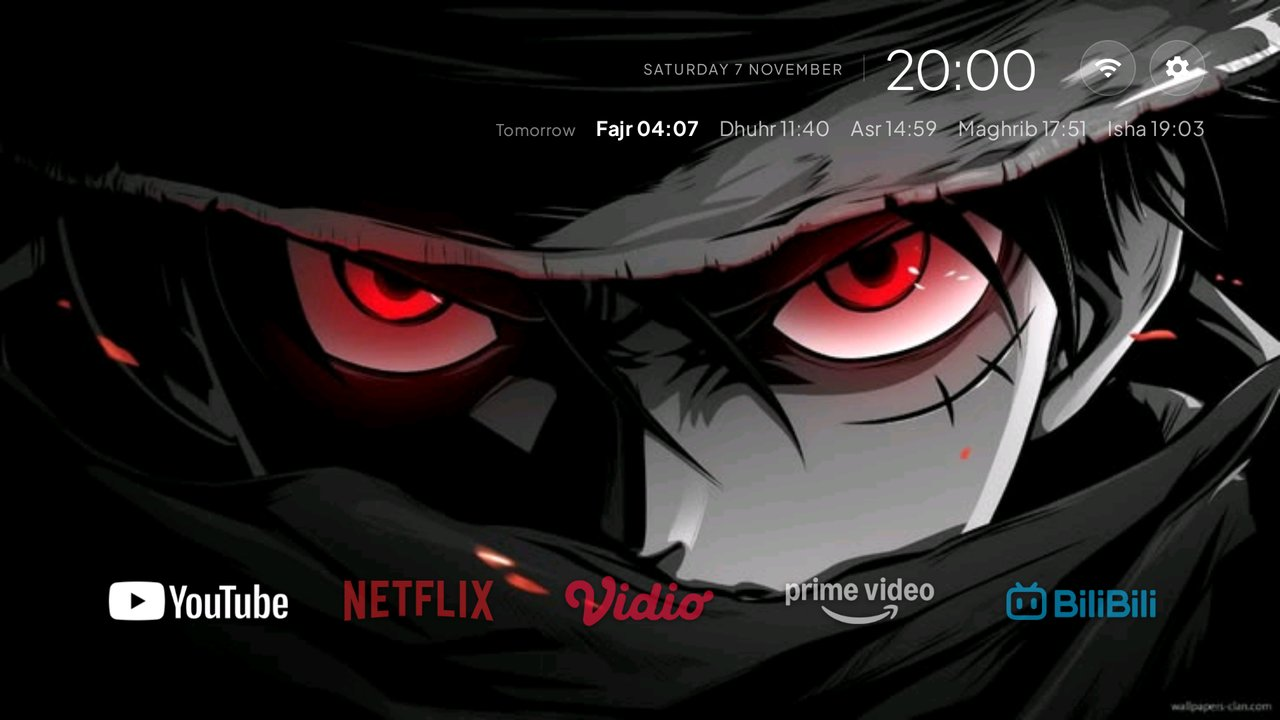
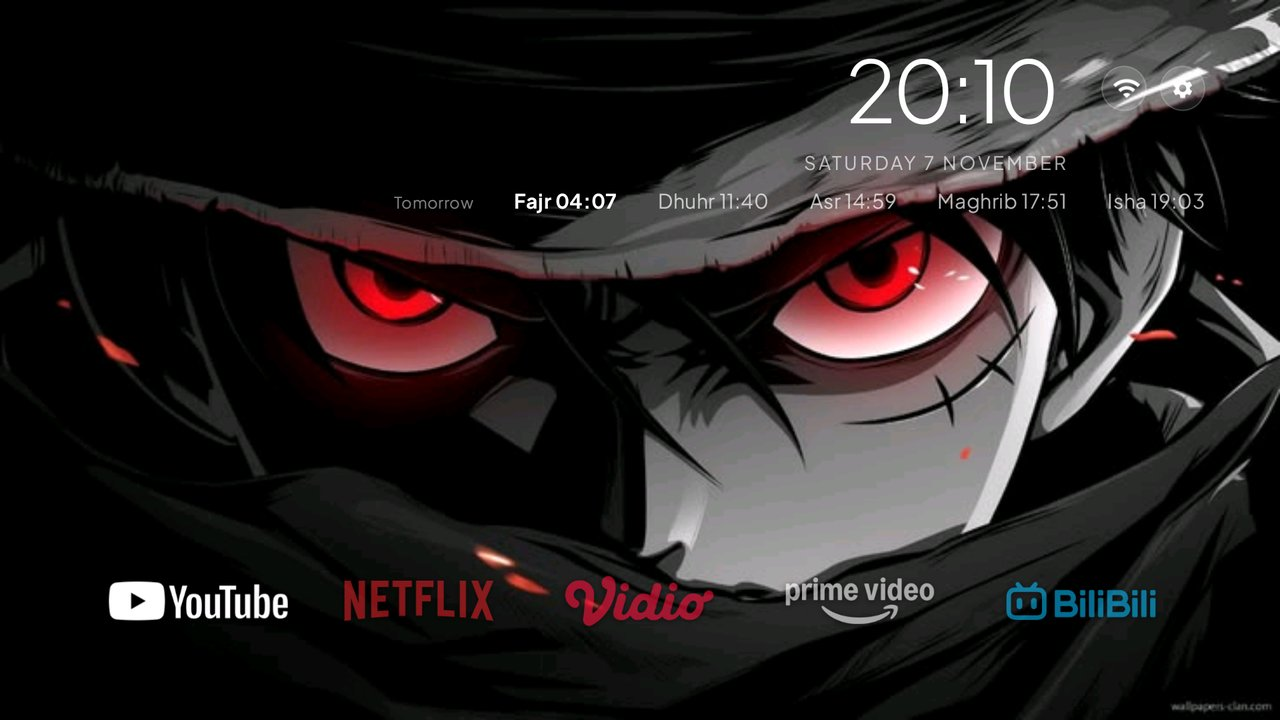
docs: header variant A screenshot, the prayer holdout and the cold-boot check in PLAN.md

diff --git a/docs/PLAN.md b/docs/PLAN.md
@@ -14,7 +14,7 @@ most 8 MB, and janky frames may differ by at most 2 percentage points.
 | 1b.1 | App logo from the theme: `icons/<package>.png`, key `app_logos` | done |
 | 1b.2 | Logo tiles with no card, focus by scale and opacity: `tile_style: "logo"`, `focus_frame: false`, `focus_scale`, `unfocused_opacity` | done |
 | 1b.4 | Combined theme push: the repo's T6C theme plus local logos from `work/theme-ref/icons/`, no logo in Git | done (by hand, see below) |
-| 1b.5 | Minimal header top right (`header_position`, `clock_size`) with today's five prayer times under it (`prayer_times`), computed offline | done; layout variant to choose |
+| 1b.5 | Minimal header top right (`header_position`, `clock_size`, `top_button_size`) with today's five prayer times under it (`prayer_times`), computed offline | done (variant A); date fix to verify after a cold boot |
 | 1b.3 | App row hidden while idle, shown on the first key press: `rows_autohide_seconds` | not started, after 1b.5 |
 | 2 | Tile size, gaps and label size as theme keys | not started |
 | 3 | Theme picker on the TV, with the remote | not started |
@@ -118,7 +118,18 @@ A/B/A after a clean boot, the experiment theme without (A) and with (B) `header_
 | GPU p50 / p90 | 5 / 6 ms | 5 / 6 ms | 5 / 6 ms |
 | Janky frames | 0.00% | 0.00% | 0.00% |
 
-The header costs no frame time and well under a megabyte. The top right reads as crowded: three layouts are drawn
+The header costs no frame time and well under a megabyte.
+
+A pure holdout, Kemenag's May, July and October 2026 (93 days), was loaded after the parameters and the margin were
+fixed and checked once: no time earlier, and same / +1 minute for Fajr 36 / 57, Dhuhr 60 / 33, Asr 44 / 49,
+Maghrib 51 / 42, Isha 36 / 57. It is a golden test now.
+
+Variant A was chosen: a large clock (`clock_size` 64) with the date under it (`date_below_clock`), round buttons at
+34 dp (`top_button_size`), and the prayer line at least the date's size with wider gaps.
+
+**To verify after the next cold boot (unplug):** the date at the top right whole, with no letter cut at either end.
+The fix (the date's lines wrap their text) was checked after theme pushes only, and the bug showed after a cold
+boot; it is not proven until the date is whole after one. The top right reads as crowded: three layouts are drawn
 as mock-ups for a choice (A: date under a large clock, B: prayers top left, C: prayers above the app row).
 
 ## Phase 1b.5 plan: minimal header and prayer times

diff --git a/docs/switches.md b/docs/switches.md
@@ -76,9 +76,10 @@ rule sit on its wanted list until a screenshot arrives.
 | `focus_frame` | <img src="switches/tile_style.jpg" width="320" alt="focus_frame false on a TV: the focused YouTube logo marked by its zoom alone, with no highlight around it"> |
 | `focus_scale` | <img src="switches/tile_style.jpg" width="320" alt="focus_scale 1.2 on a TV: the focused YouTube logo a fifth larger than the others"> |
 | `unfocused_opacity` | <img src="switches/unfocused_opacity.jpg" width="320" alt="unfocused_opacity 0.5 with animations false on a TV: Netflix focused at full opacity, the other logos at half"> |
-| `header_position` | <img src="switches/header_position.jpg" width="320" alt="header_position end on a TV: the date and a smaller clock top right, beside the Wi-Fi and Settings buttons"> |
-| `clock_size` | <img src="switches/header_position.jpg" width="320" alt="clock_size 40 on a TV: the clock top right smaller than the default 52"> |
-| `prayer_times` | <img src="switches/header_position.jpg" width="320" alt="prayer_times on a TV after Isha: Tomorrow, then Fajr 04:07 in bold, Dhuhr 11:40, Asr 14:59, Maghrib 17:51 and Isha 19:03 under the clock"> |
+| `header_position` | <img src="switches/header_position.jpg" width="320" alt="header_position end with date_below_clock on a TV: a large clock top right with the date under it, beside two small buttons"> |
+| `clock_size` | <img src="switches/header_position.jpg" width="320" alt="clock_size 64 on a TV: the clock top right larger than the default 52, the date under it at its usual size"> |
+| `prayer_times` | <img src="switches/header_position.jpg" width="320" alt="prayer_times on a TV after Isha: Tomorrow, then Fajr 04:07 in bold, Dhuhr 11:40, Asr 14:59, Maghrib 17:51 and Isha 19:03 under the date"> |
 | `prayer_latitude` | <img src="switches/header_position.jpg" width="320" alt="prayer_latitude -6.1701 on a TV: the prayer times for Jakarta under the clock"> |
 | `prayer_longitude` | <img src="switches/header_position.jpg" width="320" alt="prayer_longitude 106.8311 on a TV: the prayer times for Jakarta under the clock"> |
 | `prayer_ihtiyat` | <img src="switches/header_position.jpg" width="320" alt="prayer_ihtiyat 2 on a TV: the prayer times under the clock with Kemenag's two minutes added"> |
+| `top_button_size` | <img src="switches/header_position.jpg" width="320" alt="top_button_size 34 on a TV: the Wi-Fi and Settings buttons smaller beside the clock"> |
